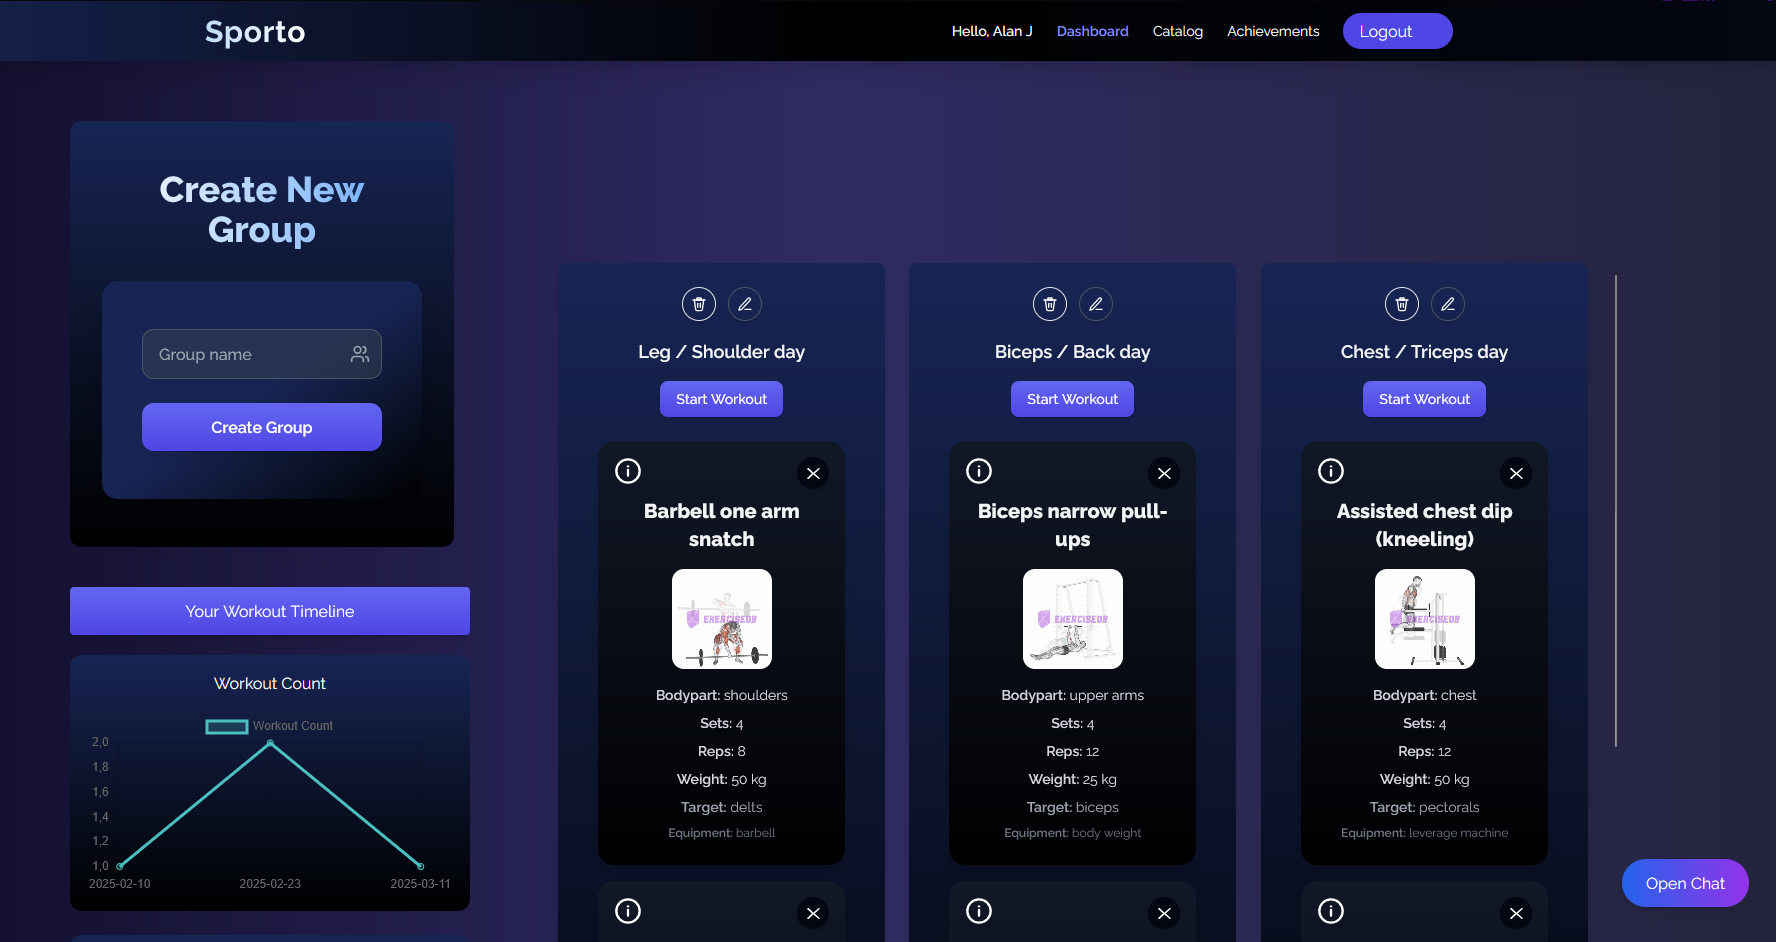
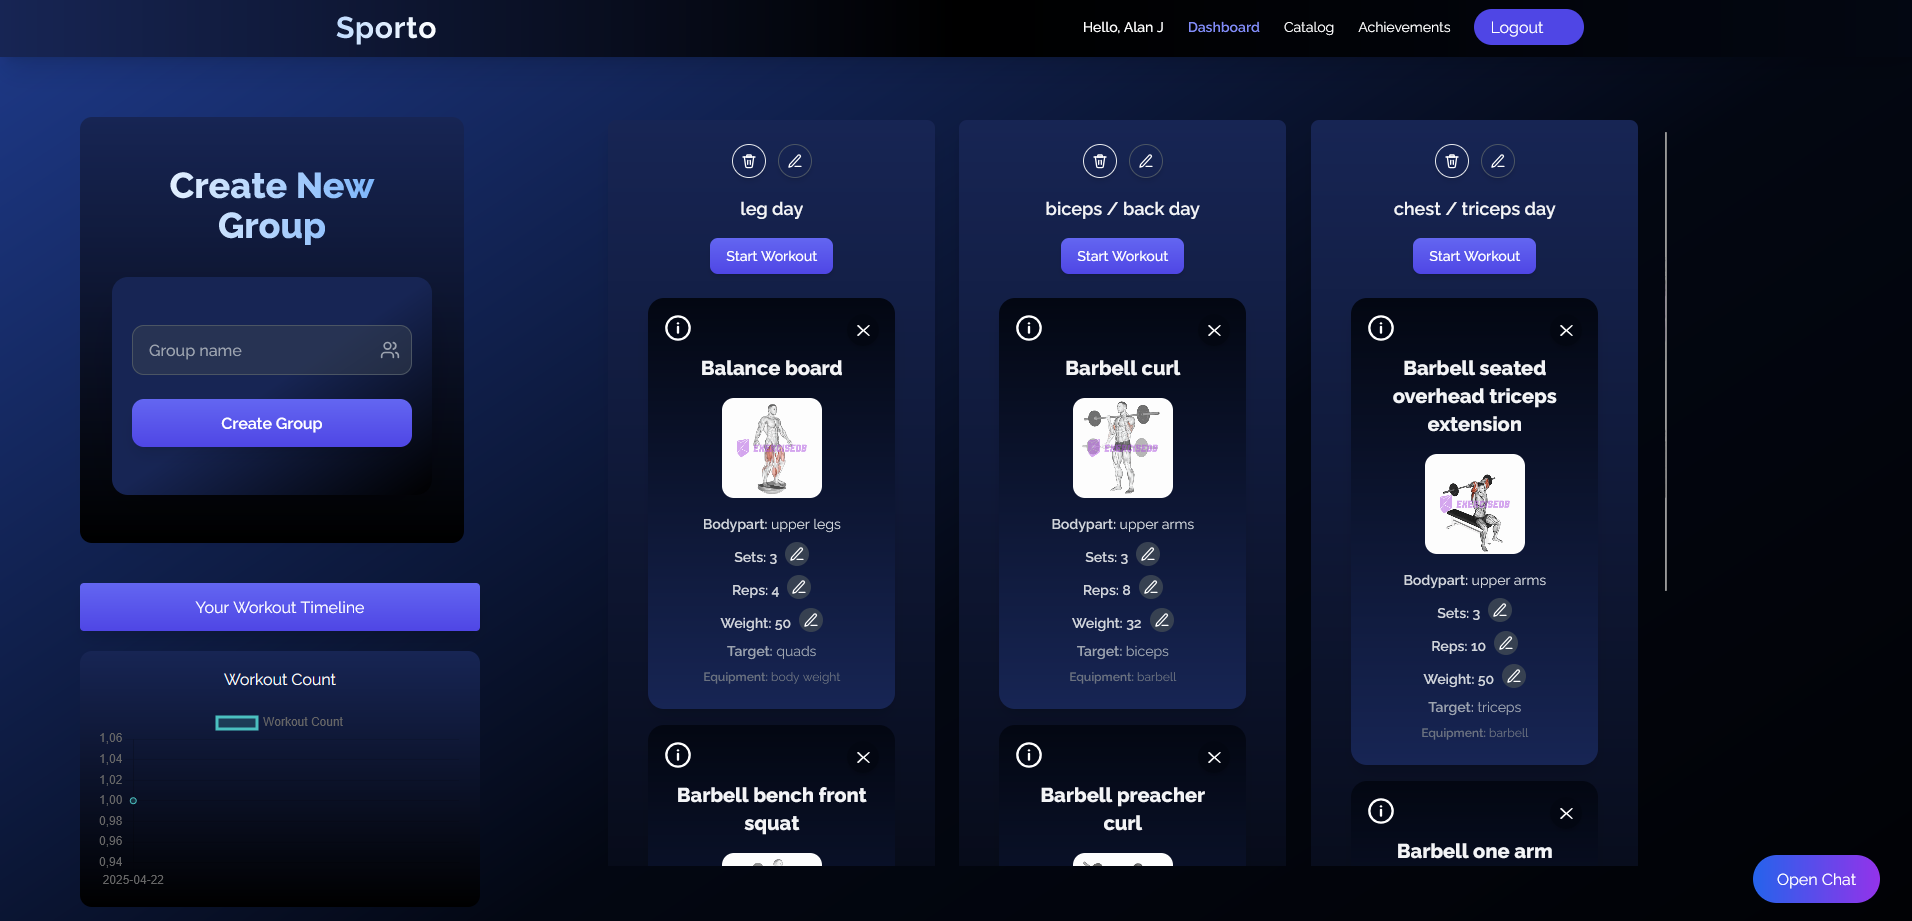
changing photo and bg on [id] route

diff --git a/app/dashboard/[id]/page.jsx b/app/dashboard/[id]/page.jsx
@@ -86,7 +86,7 @@ export default function Page() {
   }
 
   return (
-    <div className="min-h-screen flex flex-col items-center justify-center py-12 px-4 sm:px-6 lg:px-8 bg-gradient-to-r from-[#0f0c29] via-[#302b63] to-[#24243e] ">
+    <div className="min-h-screen flex flex-col items-center justify-center py-12 px-4 sm:px-6 lg:px-8 bg-gradient-to-br from-blue-900 via-gray-950 to-black">
       {workoutCompleted ? (
         <div className="text-center">
           <p className="mt-6 text-2xl font-semibold text-gray-200">
@@ -102,7 +102,7 @@ export default function Page() {
       ) : exercises.length > 0 ? (
         <div className="flex flex-col items-center mt-12">
           <h1 className="text-4xl font-bold mb-6 text-gray-100">{groupName}</h1>
-          <div className="bg-gradient-to-b from-gray-900 to-black shadow-lg rounded-2xl p-8 max-w-lg w-full border border-gray-800">
+          <div className="bg-gradient-to-b from-blue-900/30 to-black shadow-lg rounded-2xl p-8 max-w-lg w-full border border-gray-800">
             <h2 className="text-2xl font-semibold text-gray-200 mb-4 text-center">
               {exercises[curExercise].name}
             </h2>
